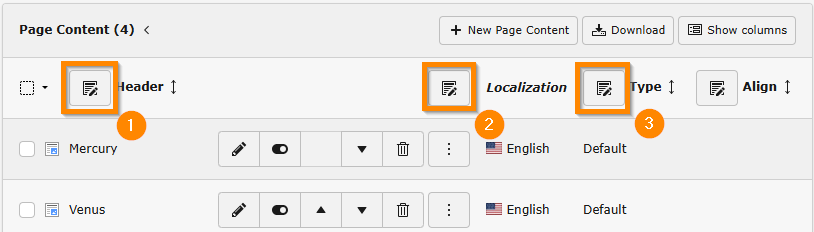
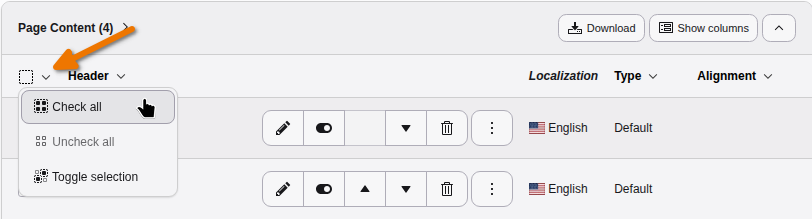
[DOCS] Add up-to-date screenshots and overhaul Mass Editing page (#305) (#307)
* [DOCS] Add up-to-date screenshots and overhaul Mass Editing page

Resolves: #303
Releases: main, 14.3

* [DOCS] Fix reST formatting issues in Mass editing page

Remove a stray closing parenthesis, add the missing blank line after
the _selective-editing-fields-choose anchor (fixes a docutils "Explicit
markup ends without a blank line" warning), and rewrap paragraphs and
a figure caption to stay under 80 characters per line.

---------

(cherry picked from commit 4d03b624c243ec7dac4cbd34bfb831cae49a7983)

diff --git a/Documentation/RecordModule/MassEditing/Index.rst b/Documentation/RecordModule/MassEditing/Index.rst
@@ -6,12 +6,12 @@
 Mass editing
 ============
 
-The :guilabel:`Content > Record` module makes it possible to display the content of several
-fields at once and gives you the ability edit several records with
-one action.
+Use the :guilabel:`Content > Record` module to bulk edit multiple content
+elements on a page at the same time.
 
-Choose the columns to be displayed by clicking the :guilabel:`Show Columns`
-button.
+Select the page you want to edit in the page tree in the middle pane (here page
+3). The content elements on the page are displayed in the right-hand pane
+under Page Content.
 
 ..  figure:: /Images/ManualScreenshots/ListModule/MassEdit/ShowColumnsButton.png
     :alt: Screenshot demonstrating the location of the "Show Columns" Button in the Content Record module
@@ -19,8 +19,10 @@ button.
 
     The Show Columns button
 
-Then chose the field or fields you want to edit from the modal.
-Click on the :guilabel:`Update` button.
+Select the fields you want to edit by clicking on the :guilabel:`Show
+Columns` button ("Columns" refers to content element fields). Here we
+select header, alignment and then type. Click on the :guilabel:`Update`
+button.
 
 ..  figure:: /Images/ManualScreenshots/ListModule/MassEdit/ShowColumnsModal.png
     :alt: Screenshot of the "Show columns for Page Content" popup
@@ -28,49 +30,80 @@ Click on the :guilabel:`Update` button.
 
     Choose the fields to be displayed and click "Update"
 
-This makes the additional fields appear in a new column to the right
-of the record list:
+The added fields now appear on the right:
 
 ..  figure:: /Images/ManualScreenshots/ListModule/MassEdit/RecordListWithAdditionalFields.png
     :alt: Content Record Module table with additional fields enabled
     :zoom: gallery
 
-    Click on the title or arrow to enable mass edit mode
+    Content element fields
 
 ..  _editing-all-headers:
 ..  _selective-editing-fields:
 
-Edit selected fields
-====================
+Bulk edit all content elements on a page
+========================================
 
-To enable mass editing you have to switch into the record list single view by
-clicking the tables title:
+First select all the content elements on the page by clicking in the
+dropdown box on the left and selecting :guilabel:`Check all`
+(:guilabel:`Toggle selection` reverses the selection).
 
 ..  figure:: /Images/ManualScreenshots/ListModule/MassEdit/MassEditingEnabled.png
-    :alt: Screen shot of the mass edit mode in the list module, edit buttons above columns visible
+    :alt: Screen shot of the mass edit mode in the Records module, edit buttons above columns visible
     :zoom: gallery
 
-    1: Edit all headers 2: Edit all Selected Fields 3: Edit just one field
+    Select all content fields
 
-To edit the headers of all records in one go, select the pencil icon next to the
-"Header" label (1).
+..  _selective-editing-fields-choose:
 
-You will then see a screen with input fields to change all headers and save
-them all at once.
+You can now choose either the :guilabel:`Edit` button or the
+:guilabel:`Edit columns` button.
 
-All fields that are currently viewable can be edited at the same
-time by selecting a different icon (2) in the screenshot above.
+Click on the :guilabel:`Edit` button to display a screen to **edit all fields**
+of the selected content elements.
 
-The result is almost the same form, but with several fields per database record
-displayed.
+..  figure:: /Images/ManualScreenshots/ListModule/MassEdit/EditButton.png
+    :alt: Screenshot showing the location of the "Edit" Button in the Content Record module
+    :zoom: gallery
+
+    The Edit button to edit all content element fields
+
+The screen will look as follows, with the content elements displayed one
+after the other. Click on :guilabel:`Save` after you have finished
+editing.
+
+..  figure:: /Images/ManualScreenshots/ListModule/MassEdit/MassEditingAllFields.png
+    :alt: Screenshot of the content element multiple edit screen in the Content Record module
+    :zoom: gallery
+
+    The multiple edit screen
+
+Or **edit only the displayed fields you have selected** by clicking on the
+:guilabel:`Edit columns` button:
+
+..  figure:: /Images/ManualScreenshots/ListModule/MassEdit/EditColumnsButton.png
+    :alt: Screenshot showing the location of the "Edit Columns" Button in the Content Record module
+    :zoom: gallery
+
+    The Edit Columns button to edit just content element fields that are
+    selected in the right-hand pane
+
+The screen will look as follows (here with fields header, type and
+alignment). Click on :guilabel:`Save` after you have finished editing.
+
+..  figure:: /Images/ManualScreenshots/ListModule/MassEdit/MassEditingSelectedFields.png
+    :alt: Screenshot of the content element multiple edit screen for selected fields in the Content Record module
+    :zoom: gallery
+
+    The multiple edit screen for selected fields
 
 ..  _selective-editing:
 
-Edit selected fields of selected records
-========================================
+Edit selected content elements
+==============================
 
-It is possible to select only those records that should be edited by using the
-checkboxes:
+Select the content elements which you would like to edit (here Mercury
+and Mars):
 
 ..  figure:: /Images/ManualScreenshots/ListModule/MassEdit/SelectiveEditing.png
     :alt: The list module with specific database records checked for mass edit
@@ -78,5 +111,7 @@ checkboxes:
 
     Selecting records for editing
 
-The result is a form for editing just the chosen field for the
-selected records.
+Then follow the instructions for bulk editing all the fields
+(:guilabel:`Edit` button) or only the displayed fields
+(:guilabel:`Edit columns` button)
+:ref:`in the previous section <selective-editing-fields-choose>`.
